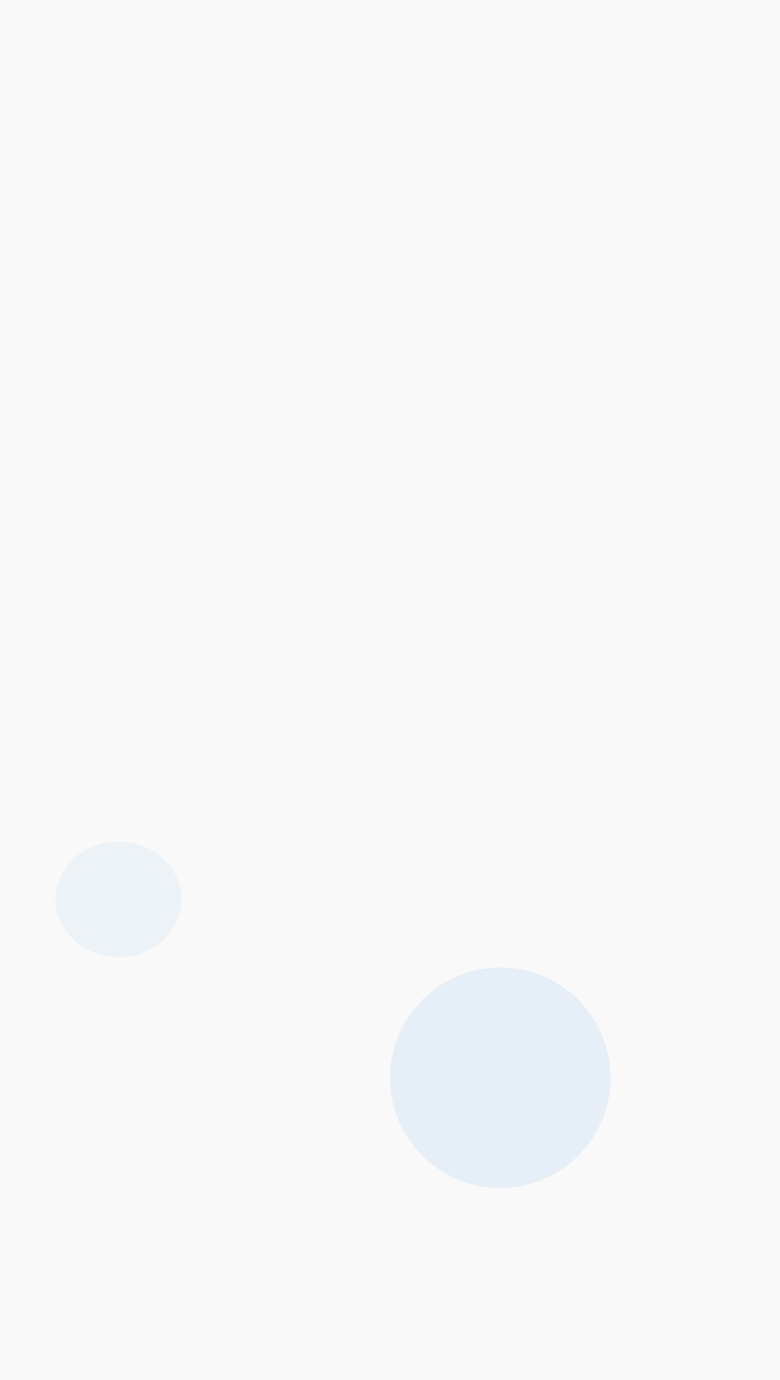
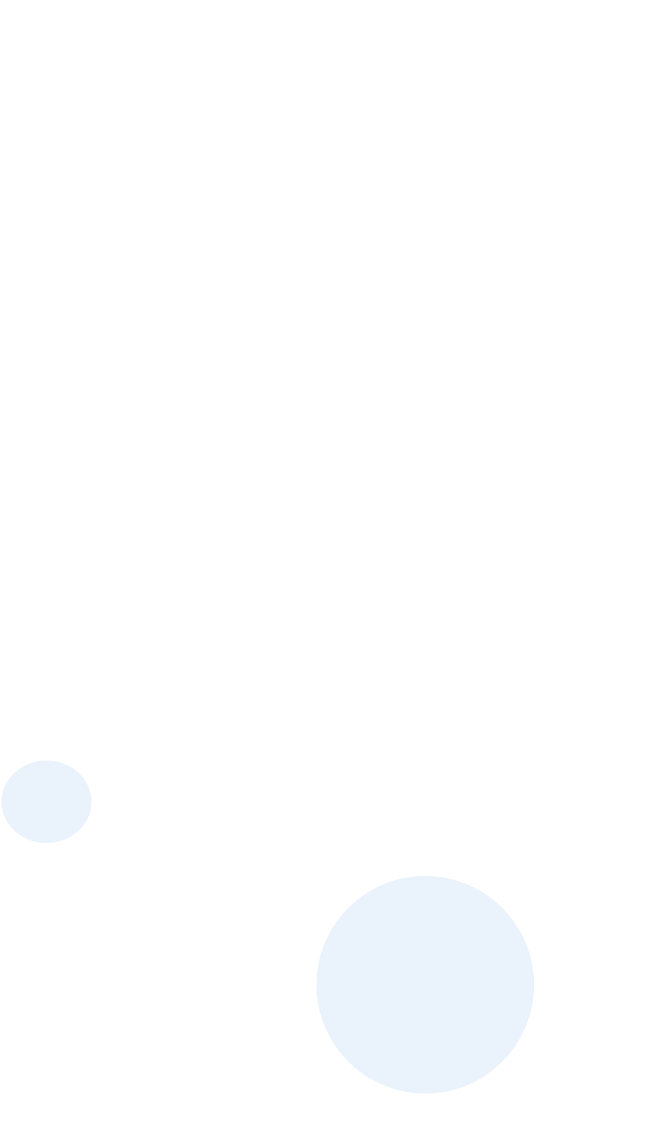
코멘트 배경변경, 레이아웃 버튼추가, 헤더버튼 span 크기조절

Changed region(s): [[0.5, 0.7031, 0.7812, 0.8253]]

diff --git a/src/views/samsungHospital/SamsungHospital.jsx b/src/views/samsungHospital/SamsungHospital.jsx
@@ -19,7 +19,7 @@ const SamsungHospital = () => {
       pageText="담당작업: 건강정보페이지 (헤더, 풋터 제외)"
       website="https://hyeeons.github.io/SamsungHospital_re/healthCare.html"
       github="https://github.com/hyeeons/SamsungHospital_re"
-      figma=""
+      figma="https://www.figma.com/file/IQ6H6cKRlS3DZtwdDiDJc3/%EC%82%BC%EC%84%B1%EC%84%9C%EC%9A%B8%EB%B3%91%EC%9B%90_%EA%B1%B4%EA%B0%95%EC%A0%95%EB%B3%B4%ED%8E%98%EC%9D%B4%EC%A7%80?type=design&node-id=0%3A1&mode=design&t=B30K9z65ocUPx0LI-1"
       projectComment="팀작업으로 병원사이트 리뉴얼을 진행했습니다. 병원사이트 방문목적을 고려하여 병원정보/건강정보의 제공, 편리한 진료예약서비스에 중점을 두었습니다. 이를 위해 3인이 메인/건강정보/예약페이지(헤더&풋터 포함)로 나누어 작업을 진행하였고 저는 건강정보 페이지를 작업했습니다. 다양한 건강정보를 명확하고 접근하기 쉽게 작업했으며, 스크롤에 따라 메뉴 바가 이동하게 함으로써 진료예약도 손 쉽게 할 수 있도록 했습니다. 이번 프로젝트를 통해 반응형 홈페이지에 대해 이해하고 연구할 수 있었습니다."
       bgImg={bg_hospital}
     />

diff --git a/src/components/layout/Layout.jsx b/src/components/layout/Layout.jsx
@@ -1,8 +1,10 @@
-import { Outlet } from "react-router-dom";
+import { Link, Outlet } from "react-router-dom";
 import styled from "styled-components";
 import theme from "../../themes/theme";
 import Gnb from "./Gnb";
 import Header from "./Header";
+import { IoHome } from "react-icons/io5";
+import { FaGithub } from "react-icons/fa";
 
 const Layout = () => {
   return (
@@ -30,8 +32,41 @@ export const PfLayout = () => {
     <>
       <Gnb />
       <Outlet />
+      <HdButton className="hdButton">
+        <Link to="/">
+          <IoHome className="icon" />
+        </Link>
+
+        <Link to="https://github.com/hyeeons" target="_blank">
+          <FaGithub className="icon" />
+        </Link>
+      </HdButton>
     </>
   );
 };
+
+const HdButton = styled.div`
+  position: absolute;
+  display: flex;
+  gap: 15px;
+  bottom: 0%;
+  right: 0%;
+  /* bottom: 2%; */
+  z-index: 100;
+  transform: translate(-50%, -50%);
+  /* opacity: 1; */
+  .icon {
+    padding: 13px;
+  }
+  .icon {
+    font-size: 51px;
+    width: 51px;
+    height: 51px;
+    padding: 13px;
+    border-radius: 50px;
+    background: ${theme.colors.txtdefault};
+    color: ${theme.colors.orange};
+  }
+`;
 
 export default Layout;

diff --git a/src/components/layout/SitePage.jsx b/src/components/layout/SitePage.jsx
@@ -85,8 +85,6 @@ const PageBox = styled.div`
 const ComtWrap = styled.div`
   width: 35%;
   height: 100vh;
-  background: url(${(props) => props.bgImg});
-  background-size: cover;
 
   /* background-color: lightcoral; */
   .cont {
@@ -94,6 +92,8 @@ const ComtWrap = styled.div`
     height: 763px;
     /* background-color: lightblue; */
     margin: 15% auto;
+    background: url(${(props) => props.bgImg});
+    background-size: cover;
   }
   /* 폰트 */
   h2 {

diff --git a/src/views/dashboard/Dashboard.jsx b/src/views/dashboard/Dashboard.jsx
@@ -1,7 +1,7 @@
 import SitePage from "../../components/layout/SitePage";
 import bg_Dashboard from "../../assets/images/projects/bg_dashboard.png";
 const Dashboard = () => {
-  const skillArr = ["React", "Chakra UI", "Router"];
+  const skillArr = ["React", "Chakra UI"];
 
   return (
     <SitePage

diff --git a/src/components/layout/Header.jsx b/src/components/layout/Header.jsx
@@ -63,7 +63,7 @@ const Hd = styled.div`
     color: ${theme.colors.orange};
     background: ${theme.colors.txtdefault};
     font-size: 20px;
-    padding: 16px 40px 15px 10px;
+    padding: 13px 40px 13px 10px;
     font-weight: 700;
     display: block;
     position: absolute;

diff --git a/src/themes/theme.js b/src/themes/theme.js
@@ -5,7 +5,7 @@ export const theme = {
     orangeVita: "#FD790D",
     orange: "#ffcc5f",
     blueSamsung: "#0B50A1",
-    portfolio: "#048dd7",
+    portfolio: "#22933d",
     dashboard: "#4F37B7",
     grayF9: "#F9F9F9",
     grayEc: "#ececec",
